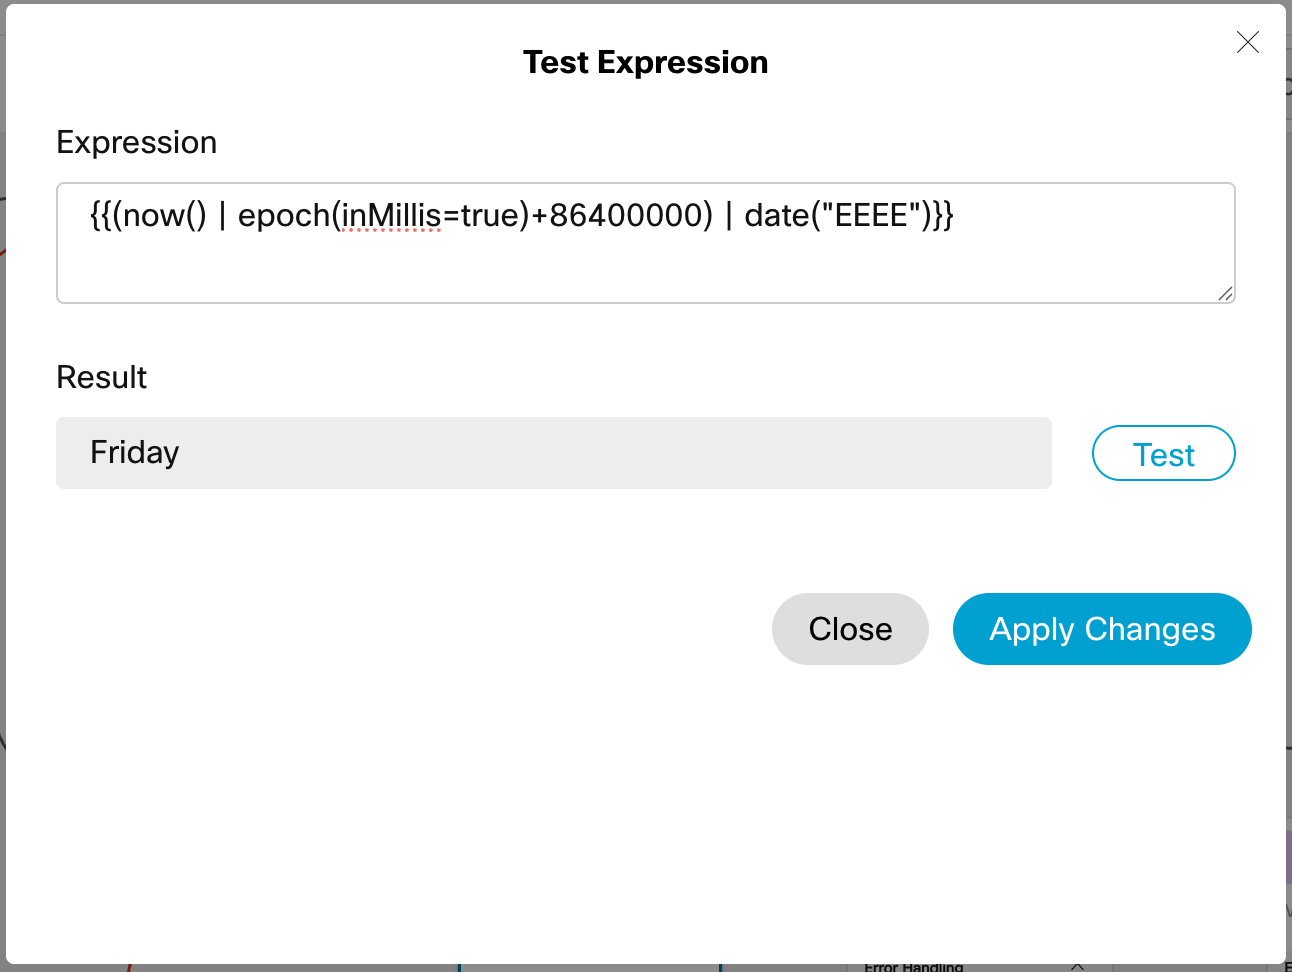
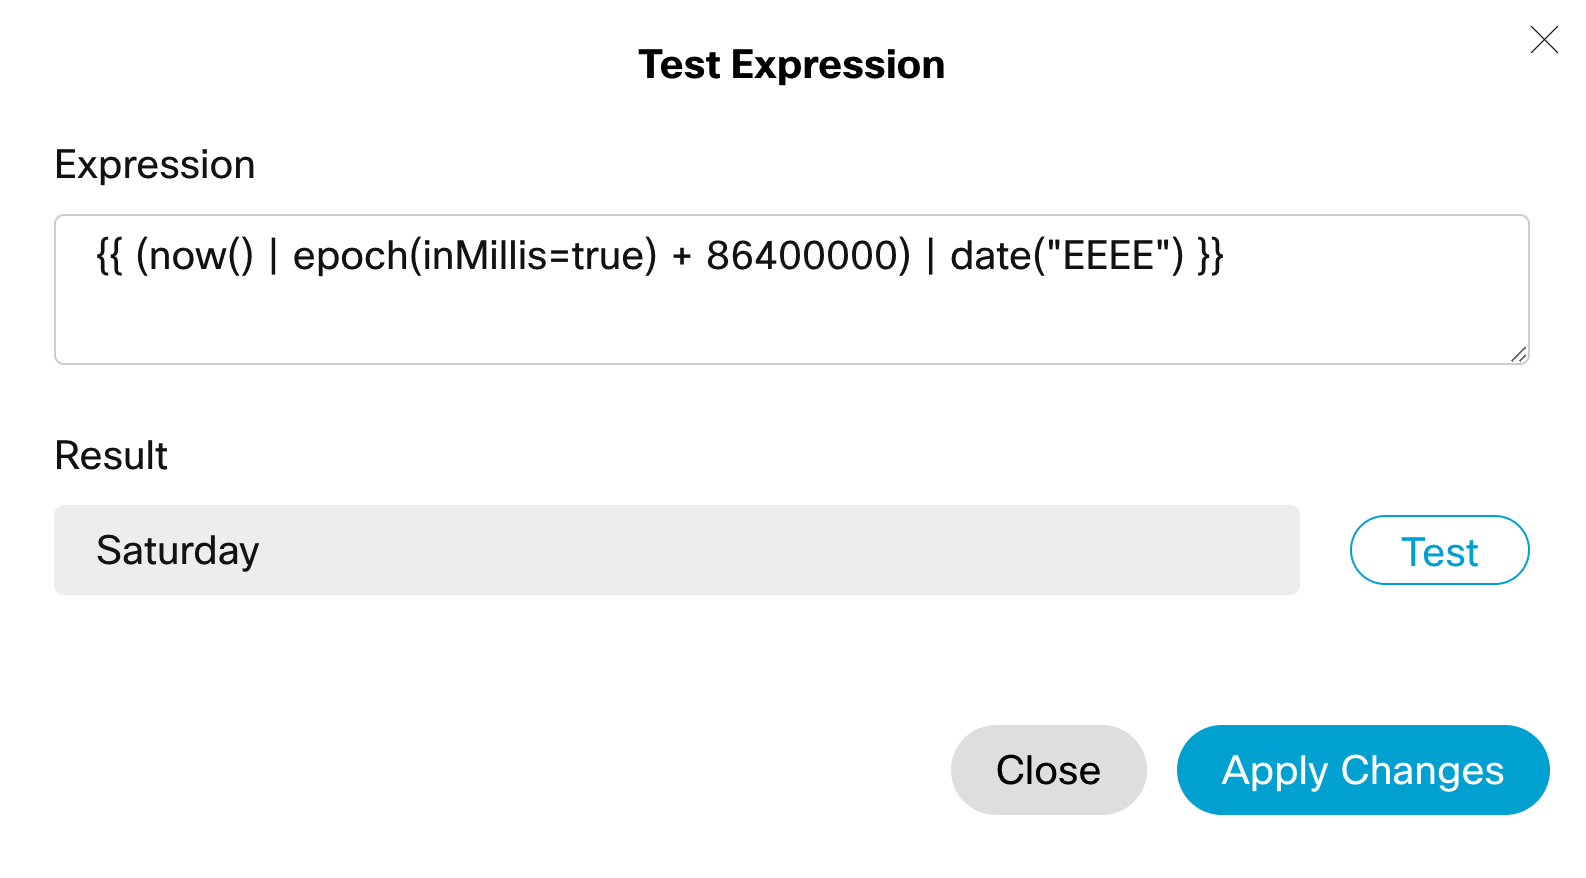
updated Tomorrow.png

diff --git a/_pages/Pebble.md b/_pages/Pebble.md
@@ -74,11 +74,11 @@ Returns the name of the day of the week for tomorrow.
 
 Expression: **`{{ (now() | epoch(inMillis=true) + 86400000) | date("EEEE") }}`**
 
-Result: **`Friday`**
+Result: **`Saturday`**
 
 <!-- {%endraw%} -->
 
-<!--img src="/assets/images/Pebbleplayground/Tomorrow.png" height="400" -->
+<img src="/assets/images/Pebbleplayground/Tomorrow.png" height="400" />
 
 ## Elapsed Days
 
